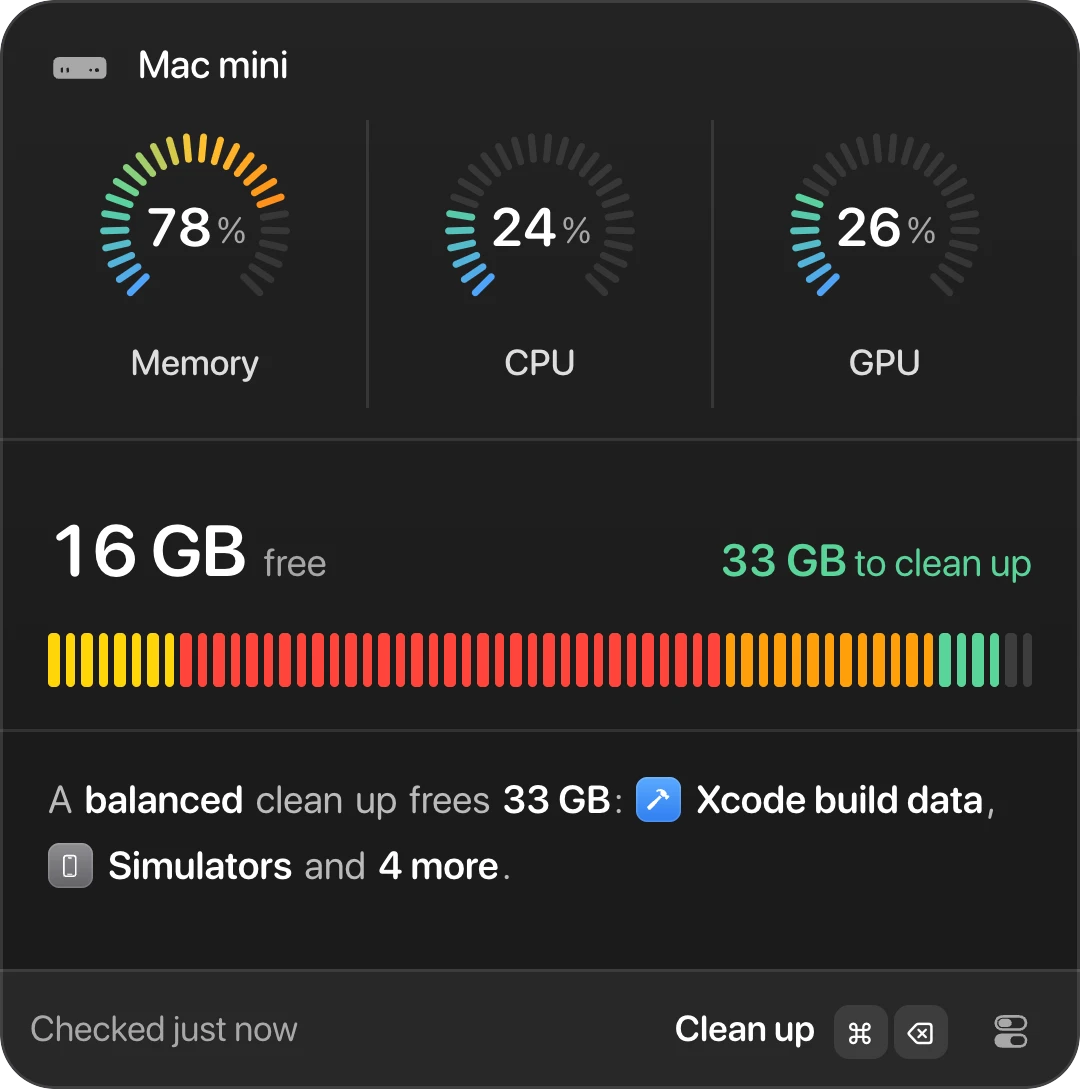
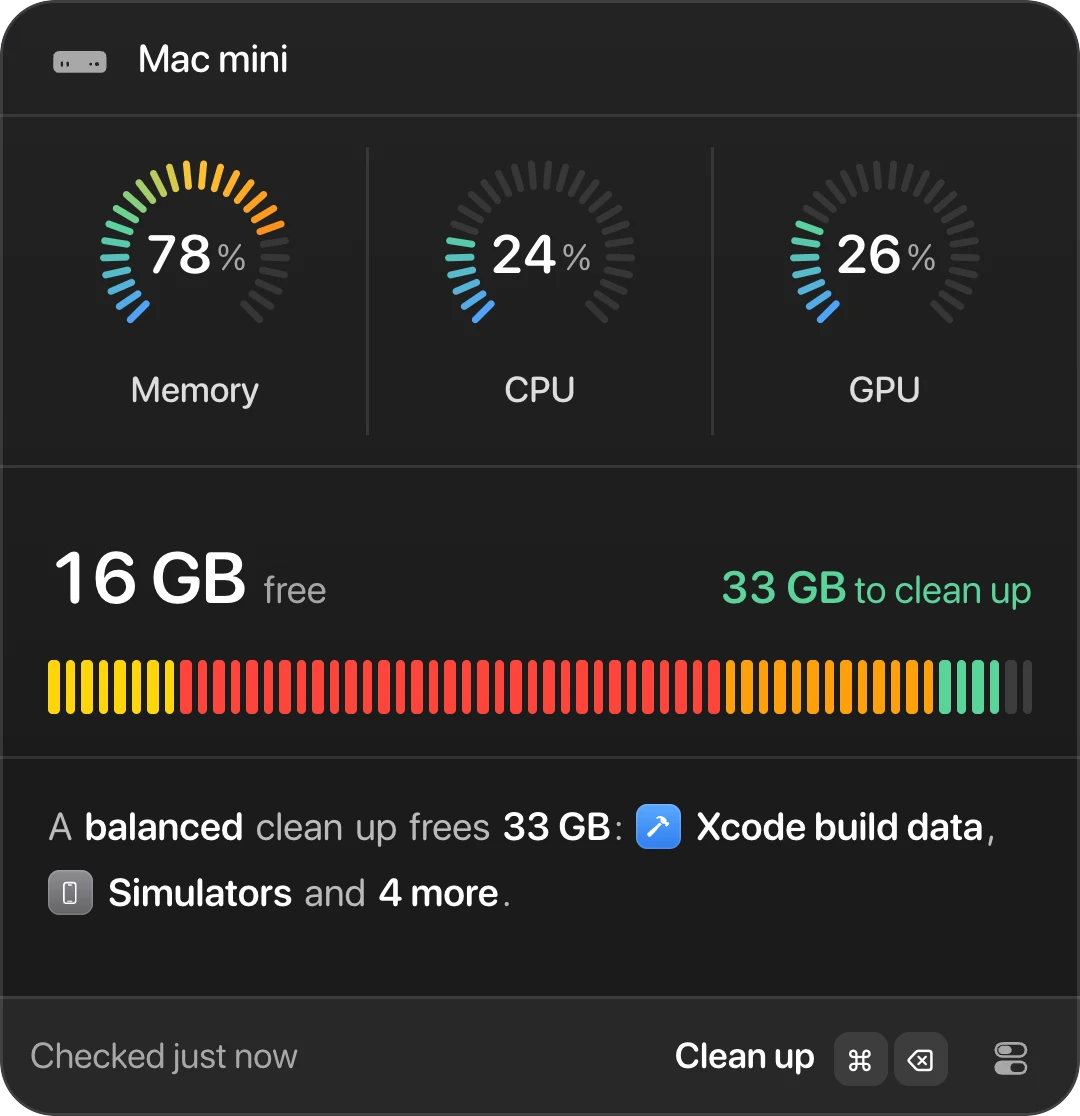
Levo demo popover: the app's latest layout, top to bottom
- The Mac's name, a divider, the gauges, a divider, free space and the disk
  bar, a divider, the sentence, then the status line and the action bar.
- "Auto mode" at the name row's end is plain orange text, as the app.
- While Auto mode is on, its sentence replaces the cleanup sentence, as the
  app: "Auto mode keeps 20 GB free: it cleans Xcode build data and 2 more on
  its own." The Auto mode tile says the same, with the same dividers.
- Phone stills re-rendered.

diff --git a/levo/demo.js b/levo/demo.js
@@ -308,6 +308,7 @@
 		'<div class="lv-pop" role="dialog" aria-label="Levo" tabindex="-1">' +
 			'<div class="lv-dhead lv-namerow"><span class="lv-sec" data-devsym>' + sym("desktopcomputer", 14) + '</span><b data-devname>Mac</b><span class="lv-flex"></span>' +
 				'<button type="button" class="lv-auto" data-act="automode" data-autopill hidden>Auto mode</button></div>' +
+			'<div class="lv-sep"></div>' +
 			'<section class="lv-gauges">' + gaugeHTML("memory", "Memory") + gaugeHTML("cpu", "CPU") + gaugeHTML("gpu", "GPU") + '</section>' +
 			'<div class="lv-freed" data-freed hidden></div>' +
 			'<div class="lv-sep"></div>' +
@@ -529,11 +530,12 @@
 		if (!el) return;
 		// While the breakdown is open the sentence holds still; only the amount follows the ticks.
 		var live = sentence(), st = S.showAll && S.frozen ? S.frozen : live;
-		var h = S.auto ? autoLine() : "";
-		h += '<p class="lv-sline">';
+		// While Auto mode is on its sentence says it all (round 13); manual cleaning stays in the bar and the breakdown.
+		var h = S.auto ? autoLine() : '<p class="lv-sline">';
 		var amount = '<span class="lv-gl">' + chip("sumall", gb(tickedGB()), ' style="min-width:' + (S.showAll && S.amountW ? S.amountW + "px" : "0") + '"') + '<span class="lv-w lv-p">:</span></span>';
 		var level = function (word) { return chip("levelword", word, ' aria-haspopup="menu"'); };
-		if (st.lead === "nothing") {
+		if (S.auto) {
+		} else if (st.lead === "nothing") {
 			h += S.groups.length ? level("Nothing") + w("to clean up.") : w(S.analysing ? "Looking for what can go." : "Nothing to clean up.");
 		} else if (st.lead === "level") {
 			h += w(st.level === "Aggressive" ? "An" : "A") + level(st.level.toLowerCase()) + w("clean up frees") + amount;
@@ -542,7 +544,7 @@
 		} else {
 			h += level("Your") + w("clean up frees") + amount;
 		}
-		if (st.lead !== "nothing") {
+		if (st.lead !== "nothing" && !S.auto) {
 			var count = st.groups.length + (st.moreChip ? 1 : 0);
 			st.groups.forEach(function (id, i) {
 				var g = group(id) || LEVO_DEMO.groups.filter(function (x) { return x.id === id; })[0];
@@ -553,8 +555,10 @@
 			});
 			if (st.moreChip) h += '<span class="lv-gl">' + chip("sumall", st.unnamed + " more", S.showAll ? ' data-lit=""' : "") + '<span class="lv-w lv-p">.</span></span>';
 		}
-		if (st.moreChoices) h += w("More") + chip("sumall", "to choose", S.showAll ? ' data-lit=""' : "") + w("from.");
-		h += "</p>";
+		if (!S.auto) {
+			if (st.moreChoices) h += w("More") + chip("sumall", "to choose", S.showAll ? ' data-lit=""' : "") + w("from.");
+			h += "</p>";
+		}
 		// "Free up GPU, it's at 88%.": a metric past its limit; the phrase runs its free plan.
 		if (SHOW_METRICS_LINE) over().forEach(function (o) {
 			var working = S.working === o.metric;
@@ -562,7 +566,8 @@
 				'<span class="lv-w lv-p">,</span></span>' + w("it’s at " + o.pct + "%.") + "</p>";
 		});
 		// Open chips show their rows in place, with their checkboxes.
-		var rows = st.lead === "nothing" ? [] : st.groups.filter(function (id) { return S.openChips[id] && group(id); });
+		var ids = S.auto ? autoGroups().map(function (g) { return g.id; }) : st.lead === "nothing" ? [] : st.groups;
+		var rows = ids.filter(function (id) { return S.openChips[id] && group(id); });
 		if (rows.length && !S.showAll) h += '<div class="lv-chiprows">' + rows.map(function (id) { return groupHTML(group(id)); }).join("") + "</div>";
 		el.innerHTML = h;
 		var amt = $('[data-act="sumall"]', el);
@@ -571,12 +576,19 @@
 	}
 	// Auto mode: Levo and the agent keep the limit free on their own, with what can always go.
 	function autoGroups() { return LEVO_DEMO.groups.filter(function (g) { return g.items.every(function (it) { return it.level === 1; }); }); }
+	// As the app (SummarySection.autoModeWords): two groups by name, or one and "N more".
 	function autoLine() {
-		var gs = autoGroups();
-		return '<p class="lv-sline lv-autoline">' + w("Auto mode keeps " + gb(S.disk.alert) + " free: it cleans") + gs.map(function (g, i) {
-			var punct = i < gs.length - 2 ? "," : "";
-			return '<span class="lv-gl">' + chip("chip", g.title, ' data-id="' + g.id + '"', tile(g.tile, g.symbol, "chip")) + (punct ? '<span class="lv-w lv-p">' + punct + "</span>" : "") + "</span>" + (i === gs.length - 2 ? w("and") : "");
-		}).join("") + w("on its own.") + "</p>";
+		var gs = autoGroups(), shown = gs.length <= 2 ? gs : gs.slice(0, 1), more = gs.length - shown.length;
+		var h = '<p class="lv-sline lv-autoline">' + chip("automode-open", "Auto mode") + w("keeps") + chip("automode-open", gb(S.disk.alert));
+		if (!gs.length) return h + w("free.") + "</p>";
+		h += w("free: it cleans");
+		var count = shown.length + (more > 0 ? 1 : 0);
+		shown.forEach(function (g, i) {
+			h += chip("chip", g.title, ' data-id="' + g.id + '"' + (S.openChips[g.id] ? ' data-lit=""' : ""), tile(g.tile, g.symbol, "chip"));
+			if (i === count - 2) h += w("and");
+		});
+		if (more > 0) h += chip("sumall", more + " more", S.showAll ? ' data-lit=""' : "");
+		return h + w("on its own.") + "</p>";
 	}
 	function setAuto(on) {
 		S.auto = !!on;
@@ -1691,7 +1703,7 @@
 			case "free": freeMetric(t.dataset.metric); break;
 			case "freedx": $("[data-freed]").hidden = true; break;
 			case "sumall": e.stopPropagation(); toggleAll(); break;
-			case "automode": e.stopPropagation(); setAuto(false); break;
+			case "automode": case "automode-open": e.stopPropagation(); togglePanel(); break;
 			case "sumspace": toggleAll(); break;
 			case "chip": e.stopPropagation(); S.openChips[id] = !S.openChips[id]; if (S.openChips[id]) S.open[id] = true; renderSummary(); break;
 			case "levelword": e.stopPropagation(); levelWordMenu(t); return;

diff --git a/levo/bento.js b/levo/bento.js
@@ -70,20 +70,21 @@
 	}
 	function autoHTML() {
 		var groups = ((D.data && D.data.groups) || []).filter(function (g) { return g.items.every(function (it) { return it.level === 1; }); });
-		var chips = groups.map(function (g, i) {
-			var punct = i < groups.length - 2 ? "," : "";
-			return '<span class="lv-gl"><span class="lv-chip">' + (D.tile ? D.tile(g.tile, g.symbol, "chip") : "") + "<span>" + g.title + "</span></span>" +
-				(punct ? '<span class="lv-w lv-p">' + punct + "</span>" : "") + "</span>" + (i === groups.length - 2 ? '<span class="lv-w">and</span>' : "");
-		}).join("");
+		// As the app's sentence: two groups by name, or one and "N more".
+		var shown = groups.length <= 2 ? groups : groups.slice(0, 1), more = groups.length - shown.length;
+		var chip = function (inner) { return '<span class="lv-chip">' + inner + "</span>"; };
+		var chips = shown.map(function (g, i) {
+			return chip((D.tile ? D.tile(g.tile, g.symbol, "chip") : "") + "<span>" + g.title + "</span>") + (i === shown.length + (more ? 1 : 0) - 2 ? '<span class="lv-w">and</span>' : "");
+		}).join("") + (more ? chip("<span>" + more + " more</span>") : "");
 		var words = function (t) { return t.split(" ").map(function (x) { return '<span class="lv-w">' + x + "</span>"; }).join(""); };
 		var ticks = "";
 		for (var i = 0; i < AUTO.ticks; i++) ticks += "<i></i>";
 		var limitY = cy(AUTO.limit), dropX = DROP * CW;
 		return '<div class="bt-auto-pop">' +
-				'<div class="bt-auto-name">' + (D.sym ? D.sym("laptopcomputer", 14) : "") + "<b>MacBook Pro</b><span class=\"bt-auto-flex\"></span><span class=\"bt-auto-pill\">Auto mode</span></div>" +
+				'<div class="bt-auto-name">' + (D.sym ? D.sym("laptopcomputer", 14) : "") + "<b>MacBook Pro</b><span class=\"bt-auto-flex\"></span><span class=\"bt-auto-pill\">Auto mode</span></div><i class=\"bt-auto-sep\"></i>" +
 				'<div class="bt-auto-hero"><span class="bt-auto-free" data-autofree>' + gbText(AUTO.top) + '</span><span class="bt-auto-sec">free</span></div>' +
-				'<div class="bt-auto-ticks" data-autoticks>' + ticks + "</div>" +
-				'<p class="lv-sline">' + words("Auto mode keeps " + gbText(AUTO.limit) + " free: it cleans") + chips + words("on its own.") + "</p>" +
+				'<div class="bt-auto-ticks" data-autoticks>' + ticks + '</div><i class="bt-auto-sep"></i>' +
+				'<p class="lv-sline">' + chip("<span>Auto mode</span>") + words("keeps") + chip("<span>" + gbText(AUTO.limit) + "</span>") + words("free: it cleans") + chips + words("on its own.") + "</p>" +
 			"</div>" +
 			'<div class="bt-auto-chart">' +
 				'<svg viewBox="0 0 ' + CW + " " + CH + '" preserveAspectRatio="none">' +

diff --git a/levo/bento.css b/levo/bento.css
@@ -170,7 +170,7 @@ html.dark .bt-auto { --fg: 255 255 255; --lv-ready: #59D499; --lv-free: rgb(255 
 	flex: 0 0 360px;
 	align-self: center;
 	box-sizing: border-box;
-	padding: 14px 16px 16px;
+	padding: 12px 16px 16px;
 	border-radius: 18px;
 	background: linear-gradient(180deg, #F8F8F8 0%, #F0F0F0 70%);
 	box-shadow: inset 0 0 0 1px rgba(0, 0, 0, 0.08), var(--bt-frame-shadow);
@@ -179,15 +179,17 @@ html.dark .bt-auto { --fg: 255 255 255; --lv-ready: #59D499; --lv-free: rgb(255 
 html.dark .bt-auto-pop { background: linear-gradient(180deg, #232323 0%, #1B1B1B 70%); box-shadow: inset 0 0 0 1px rgba(255, 255, 255, 0.12), var(--bt-frame-shadow); }
 .bt-auto .lv-gl .lv-p { margin-left: -1px; }
 .bt-auto-name { display: flex; align-items: center; gap: 8px; }
+.bt-auto-sep { display: block; height: 1px; margin: 10px -16px 0; background: rgb(var(--fg) / 0.08); }
+.bt-auto-ticks + .bt-auto-sep { margin: 14px -16px 14px; }
 .bt-auto-name .lv-sym { color: rgb(var(--fg) / 0.5); }
 .bt-auto-name b { font-weight: 500; }
 .bt-auto-flex { flex: 1; }
-.bt-auto-pill { height: 18px; padding: 0 7px; border-radius: 9px; display: inline-flex; align-items: center; background: color-mix(in srgb, var(--lv-ready) 15%, transparent); color: var(--lv-ready); font-size: 11px; font-weight: 500; transition: box-shadow .3s; }
-.is-low .bt-auto-pill { box-shadow: 0 0 0 3px color-mix(in srgb, var(--lv-ready) 18%, transparent); }
+.bt-auto-pill { color: #9E4700; font-size: 13px; font-weight: 500; }
+html.dark .bt-auto-pill { color: #FF9217; }
 .bt-auto-hero { display: flex; align-items: baseline; gap: 6px; margin-top: 14px; }
 .bt-auto-free { font-size: 24px; font-weight: 600; letter-spacing: -0.3px; font-variant-numeric: tabular-nums; }
 .bt-auto-sec { color: rgb(var(--fg) / 0.5); }
-.bt-auto-ticks { display: flex; gap: 2px; margin: 12px 0 16px; }
+.bt-auto-ticks { display: flex; gap: 2px; margin: 12px 0 0; }
 .bt-auto-ticks i { flex: 1; height: 18px; border-radius: 1.5px; background: var(--lv-free); transition: background-color .3s; }
 .bt-auto-ticks i.is-sys { background: #FFD60A; }
 .bt-auto-ticks i.is-data { background: #FF453A; }

diff --git a/levo/demo.css b/levo/demo.css
@@ -1106,9 +1106,9 @@ html.dark .lv-bsheet { box-shadow: 0 0 0 1px rgb(var(--fg) / 0.1), 0 -4px 16px r
 	.lv-fan-item, .lv-fan-open, .lv-dk-stack.is-arriving { animation: none; }
 }
 
-/* Round 12: the Mac's name first, Auto mode's pill beside it while it's on. */
-.lv-namerow { padding: 14px 16px 0; }
-.lv-auto { flex-shrink: 0; height: 18px; padding: 0 7px; border: 0; border-radius: 9px; background: color-mix(in srgb, var(--lv-ready) 15%, transparent); color: var(--lv-ready); font: inherit; font-size: 11px; font-weight: 500; cursor: default; }
+/* Round 13: the Mac's name first, over a divider; "Auto mode" in plain orange at its end while it's on. */
+.lv-namerow { padding: 12px 16px 10px; }
+.lv-scene .lv-auto { flex-shrink: 0; padding: 0; border: 0; background: none; color: #9E4700; font: inherit; font-size: 13px; font-weight: 500; cursor: pointer; }
+html.dark .lv-scene .lv-auto { color: #FF9217; }
 .lv-auto[hidden] { display: none; }
 .lv-auto:not([hidden]) { animation: lv-in .25s var(--ease-out); }
-.lv-autoline { margin-bottom: 8px; }

diff --git a/levo/index.html b/levo/index.html
@@ -97,7 +97,7 @@
 						<div class="m-pop" data-m-pop>
 							<picture class="m-shot">
 								<source media="(prefers-color-scheme: dark)" srcset="img/shots/popover-dark.webp" data-dark>
-								<img src="img/shots/popover-light.webp" width="1080" height="1089" alt="Levo in the menu bar" decoding="async">
+								<img src="img/shots/popover-light.webp" width="1080" height="1116" alt="Levo in the menu bar" decoding="async">
 							</picture>
 						</div>
 					</div>

diff --git a/levo/README.md b/levo/README.md
@@ -145,11 +145,13 @@ carries names, labels, numbers and the price only.
 
 ## The popover
 
-The demo shows the app's Summary layout in round 12's order (PopoverView.swift):
-the Mac's name, the gauges, then free space, "to clean up" and the five-part
+The demo shows the app's Summary layout in round 13's order (PopoverView.swift):
+the Mac's name (with "Auto mode" in plain orange at its end while it's on), a
+divider, the gauges, a divider, free space, "to clean up" and the five-part
 disk bar (macOS's storage palette as the app: System Data yellow, Your Data
-red, Apps orange, Ready to free green, Free faint; only the green fills), then "A balanced clean up frees 33 GB: Xcode build data, Simulators and
-4 more." The level word is a menu (Careful, Balanced, Aggressive, Everything);
+red, Apps orange, Ready to free green, Free faint; only the green fills), a
+divider, then "A balanced clean up frees 33 GB: Xcode build data, Simulators and
+4 more.", then the status line and the action bar. The level word is a menu (Careful, Balanced, Aggressive, Everything);
 the amount, "4 more" and the empty space open the full breakdown, and the
 sentence holds still while ticking there. The Command K panel and every confirm
 are bottom sheets that grow the popover if needed. The Expanded lists are still
@@ -163,8 +165,9 @@ pixel's blend with the panel), since they are crops of older renders.
 Auto mode (the app's name; it used to be auto-clean) keeps free space above the
 limit on its own. In the demo, Control Centre's Auto mode control or "Turn on
 Auto mode" in the Command K panel switch it: the "Auto mode" pill shows beside
-the Mac's name, "Auto mode keeps 20 GB free: it cleans Xcode build data, Package
-caches and Browser caches on its own." leads the summary, and if free space is
+the Mac's name, and "Auto mode keeps 20 GB free: it cleans Xcode build data
+and 2 more on its own." takes the cleanup sentence's place (as the app: two
+groups by name, or one and "N more"); if free space is
 under the limit Levo cleans those groups with no click. The groups are the ones
 whose every item is level 1. The first bento tile (bento.js, drawn live, not a
 render) shows the same pill and sentence beside free space falling to the limit
